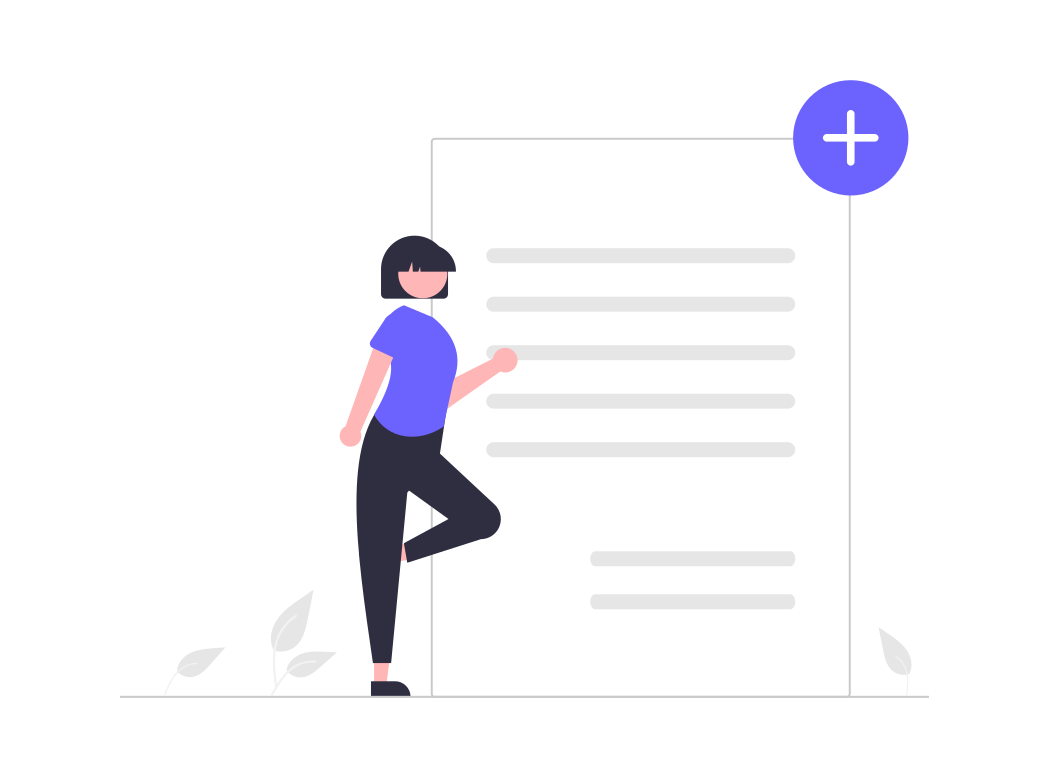
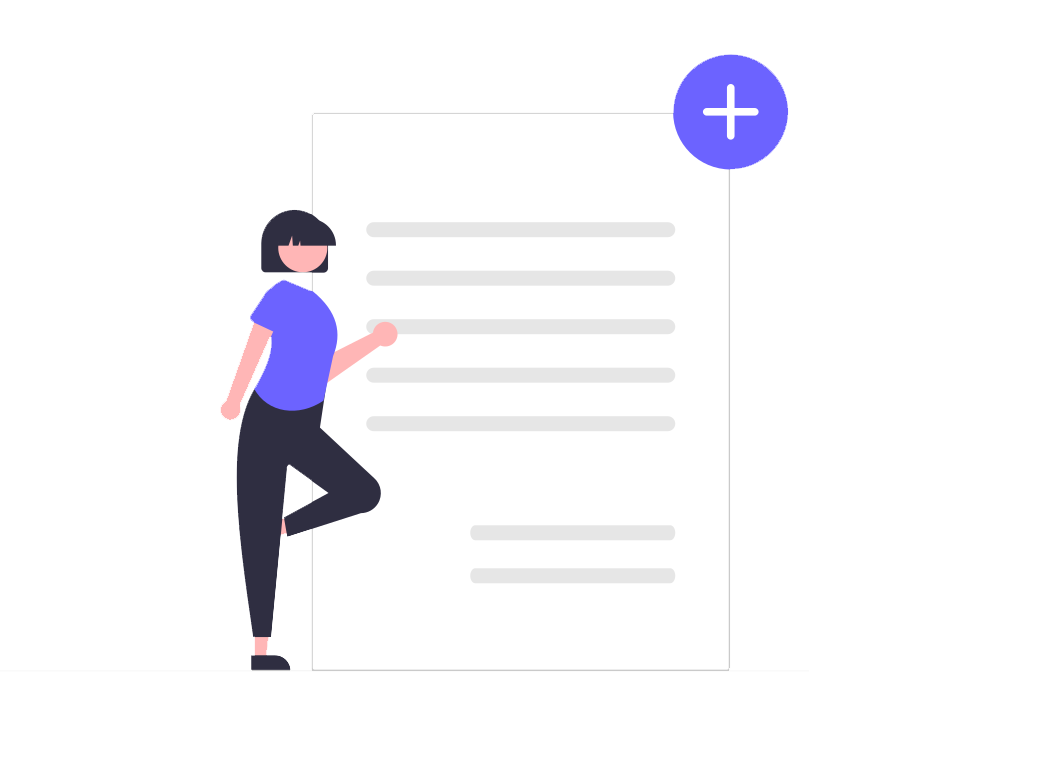
登录界面动效完成

Changed region(s): [[0.1525, 0.2468, 0.7626, 0.8946], [0.6406, 0.0617, 0.8847, 0.2776], [0.8236, 0.8021, 0.8847, 0.8638]]

diff --git a/src/views/login/components/form/FormIndex.vue b/src/views/login/components/form/FormIndex.vue
@@ -4,6 +4,8 @@ import formCon from './FormCon.vue';
 import { signInConfig, signUpConfig } from '../config/formConfig';
 import { useFormType } from '@/stores/formType';
 import { storeToRefs } from 'pinia';
+import signInBg from '@/assets/imgs/signInbg.png';
+import signUpBg from '@/assets/imgs/signUpBg.png';
 
 const { status } = storeToRefs(useFormType());
 const switchForm = (type: boolean) => {
@@ -13,7 +15,13 @@ const switchForm = (type: boolean) => {
 <template>
   <div class="container">
     <div class="left">
-      <formBoard />
+      <Transition
+        enter-active-class="animate__animated animate__bounceInLeft"
+        leave-active-class="animate__animated animate__bounceOutRight"
+      >
+        <formBoard :url="signInBg" v-if="!status" />
+        <formBoard :url="signUpBg" word="加入我们吧！" v-else />
+      </Transition>
     </div>
     <div class="right">
       <Transition
@@ -35,7 +43,6 @@ const switchForm = (type: boolean) => {
   display: flex;
   position: absolute;
   left: 0;
-  top: 0;
   .left {
     width: 50%;
     height: 100%;
@@ -43,6 +50,8 @@ const switchForm = (type: boolean) => {
     justify-content: center;
     align-items: center;
     background: linear-gradient(#8f5ae0, #ad8ce2);
+    overflow: hidden;
+    position: relative;
   }
   .right {
     flex-grow: 1;

diff --git a/src/views/login/components/form/FormBoard.vue b/src/views/login/components/form/FormBoard.vue
@@ -1,11 +1,23 @@
 <script setup lang="ts">
-import { ref } from 'vue';
-const word = ref<string>('准备做什么呢?');
+import { reactive } from 'vue';
+const props = defineProps({
+  word: {
+    type: String,
+    default: '准备做什么呢?'
+  },
+  url: {
+    type: String,
+    required: true
+  }
+});
+const style = reactive({
+  backgroundImage: `url(${props.url})`
+});
 </script>
 <template>
   <div class="board">
-    <div class="top"></div>
-    <div class="bot">{{ word }}</div>
+    <div class="top" :style="style"></div>
+    <div class="bot">{{ word ?? '准备做点什么呢?' }}</div>
   </div>
 </template>
 <style lang="scss" scoped>
@@ -14,10 +26,11 @@ const word = ref<string>('准备做什么呢?');
   flex-direction: column;
   justify-content: center;
   align-items: center;
+  position: absolute;
   .top {
     width: 200px;
     height: 200px;
-    background: url('@/assets/imgs/signInbg.png') no-repeat center center;
+    background: no-repeat center center;
     background-size: cover;
   }
   .bot {

diff --git a/src/views/login/loginIndex.vue b/src/views/login/loginIndex.vue
@@ -2,6 +2,8 @@
 import Wg from './components/WelcomBg.vue';
 import LoginCon from './components/LoginBox.vue';
 import WelText from './components/WelText.vue';
+import { reactive } from 'vue';
+import bg from '@/assets/imgs/bg.png';
 </script>
 <template>
   <div class="container">
@@ -19,10 +21,11 @@ import WelText from './components/WelText.vue';
   left: 0;
   width: 100%;
   height: 100%;
-  background-color: #dfd5f5;
   display: flex;
   align-items: center;
   justify-content: center;
+  background-size: contain;
+  background: no-repeat center center;
   .text {
     position: absolute;
     top: 50%;

diff --git a/src/views/login/components/LoginBox.vue b/src/views/login/components/LoginBox.vue
@@ -46,7 +46,8 @@ onMounted(() => {
   position: relative;
   z-index: 9;
   border-radius: 20px;
-  border: 15px solid rgba(227, 220, 247, 0.9);
+  box-shadow: 0 0 10px rgba($color: #000000, $alpha: 0.3);
+  // border: 15px solid rgba(227, 220, 247, 0.6);
   overflow: hidden;
   &.scales {
     animation: scale 0.3s;
